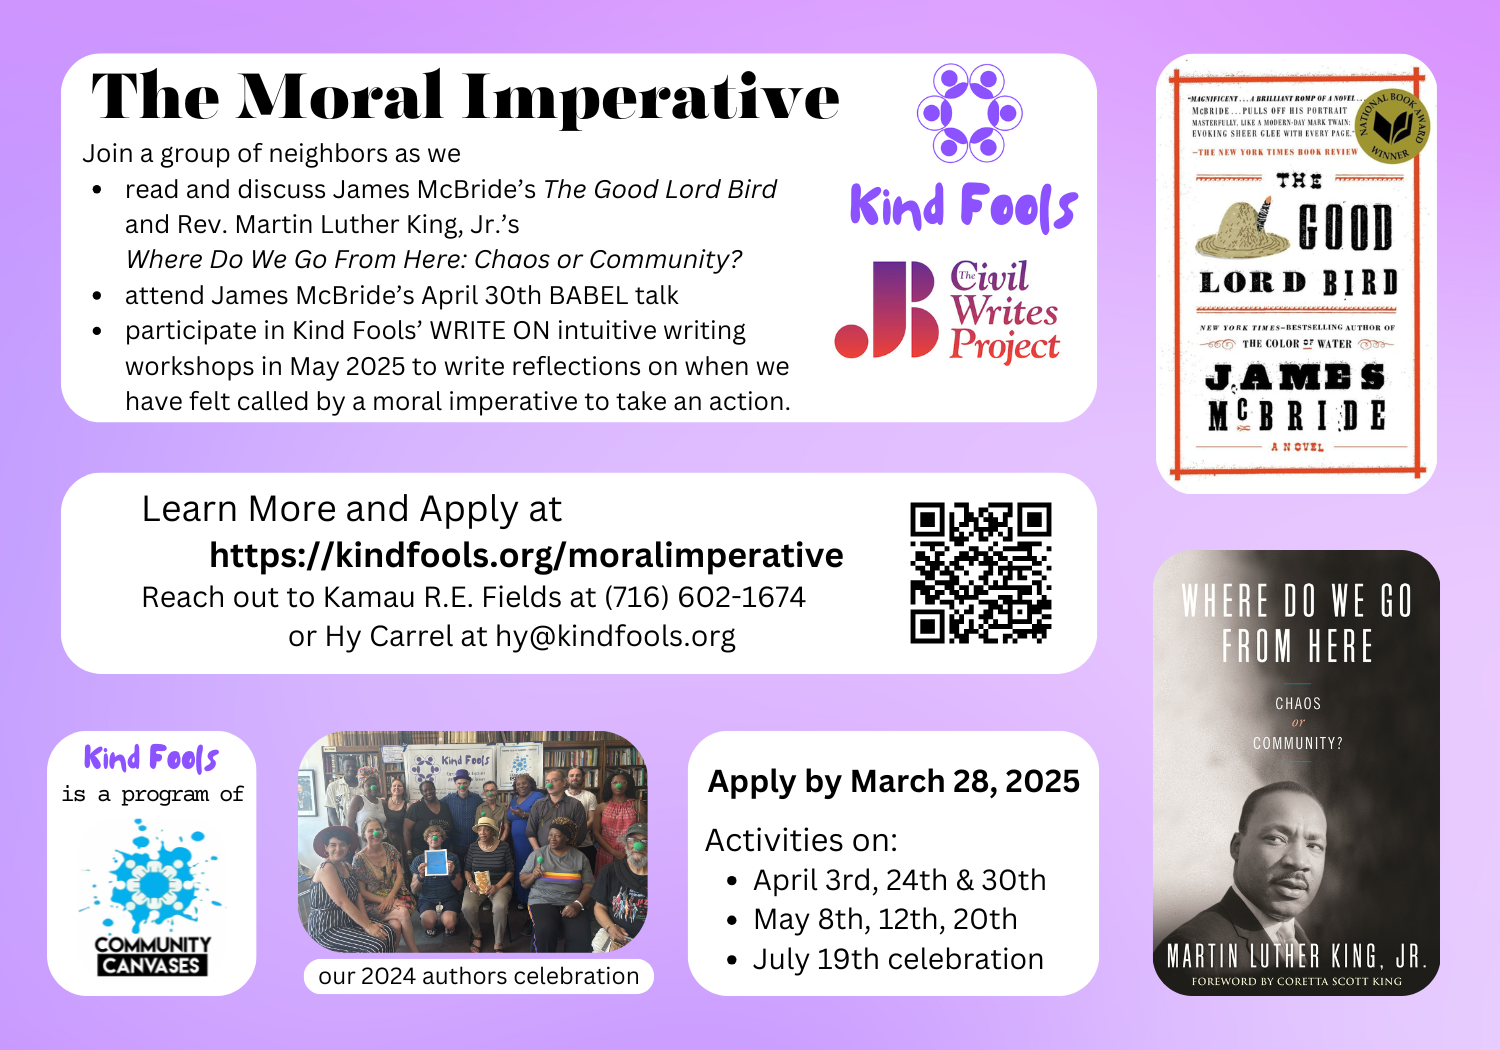
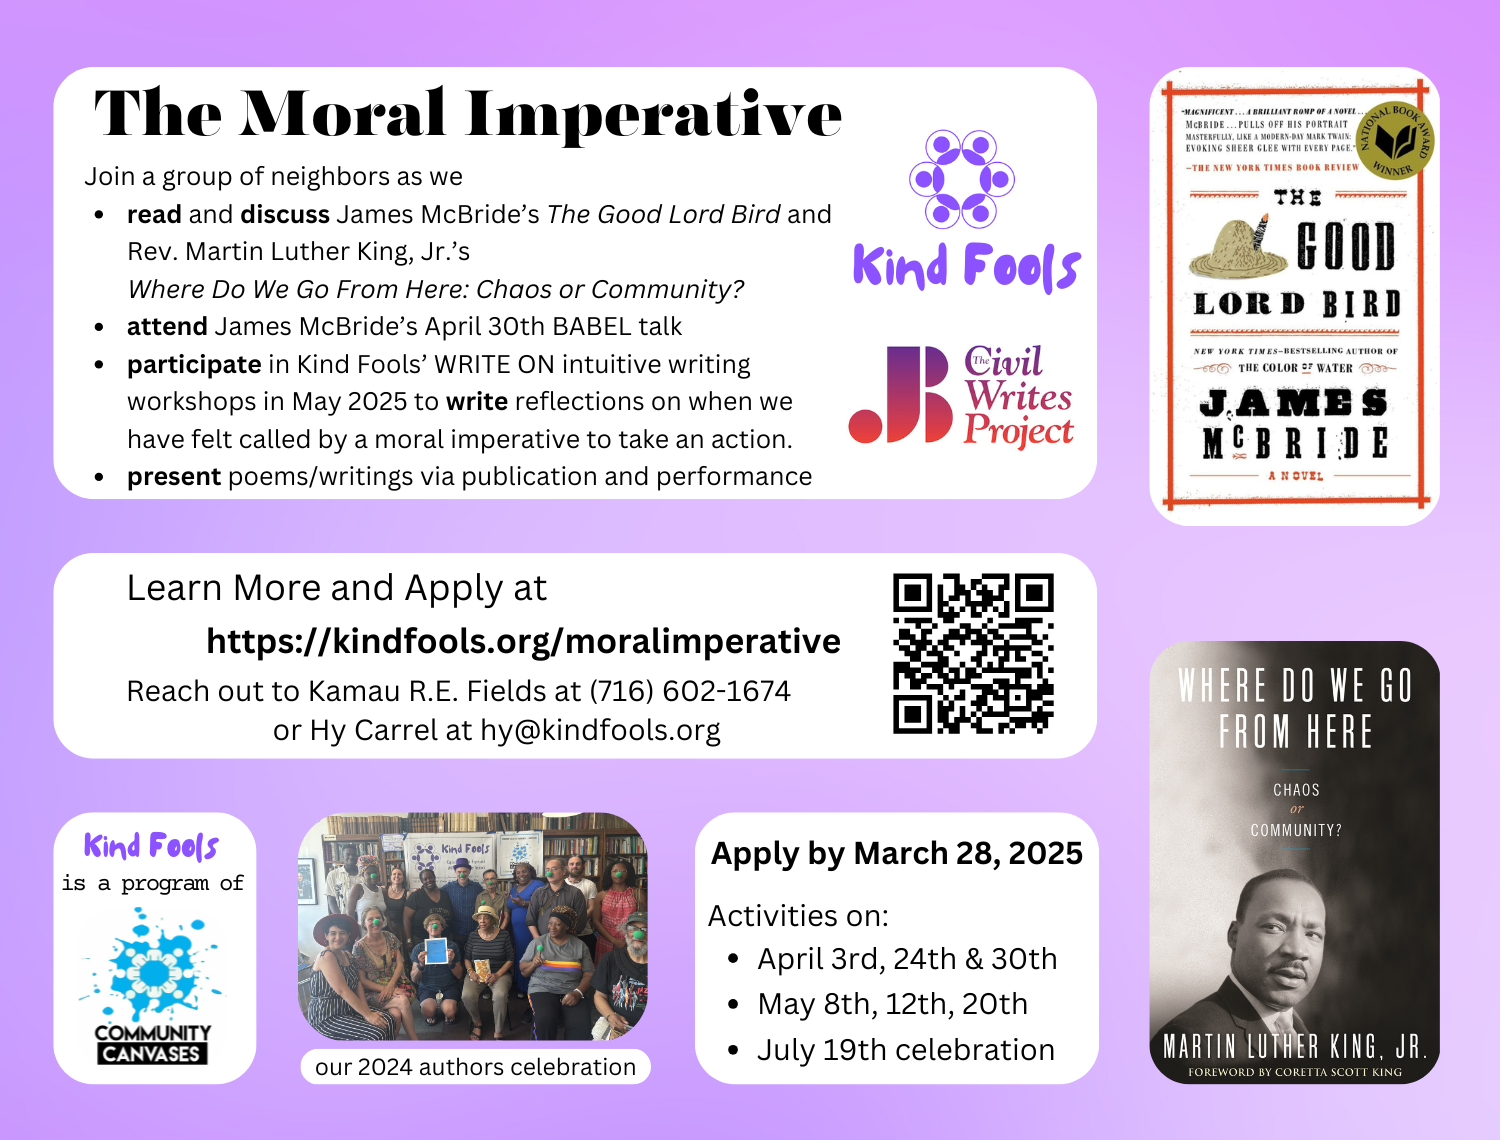
Announce The Moral Imperative and Earth Day

Changed region(s): [[0.0307, 0.0305, 0.736, 0.9752], [0.7667, 0.0305, 0.9813, 0.4876], [0.7667, 0.5181, 0.9813, 0.9448]]

diff --git a/index.md b/index.md
@@ -16,16 +16,18 @@ all_posts:
 # Upcoming Events
 {: .text-center}
 
+**The Moral Imperative** part of the Civil Writes Project
+   [Apply](/moralimperative/){: .btn .btn--success} - before March 28th<br>
 **WRITE ON - March 13th** at 1pm at Merriweather Library
     [Sign Up/Info](/writeon/){: .btn .btn--success}<br>
 Our partner - **Recovery Stories at 5:30pm March 17th** [Info/Sign-up](
     /recoverystories/){: .btn .btn--success}<br>
 **WRITE ON - March 25th** at 6pm at Delavan-Grider Community Center
     [Sign Up/Info](/writeon/){: .btn .btn--success}<br>
+**WNY Trash Mob's Earth Day Clean Up Challenge 2025** [All the Details](
+    https://communitycanvases.org/earthday2025/){: .btn .btn--info}<br>
 WRITE ON - Home - writing in your native language
     [Details](/home/){: .btn .btn--info}<br>
-**"Heavy" Reflections** part of the Civil Writes Project
-   [Details](/heavyreflections/){: .btn .btn--info}<br>
 Signal Box Art Project [Info/Application](
     https://communitycanvases.org/signalboxes/northbuffalo/
     ){: .btn .btn--info}<br>
